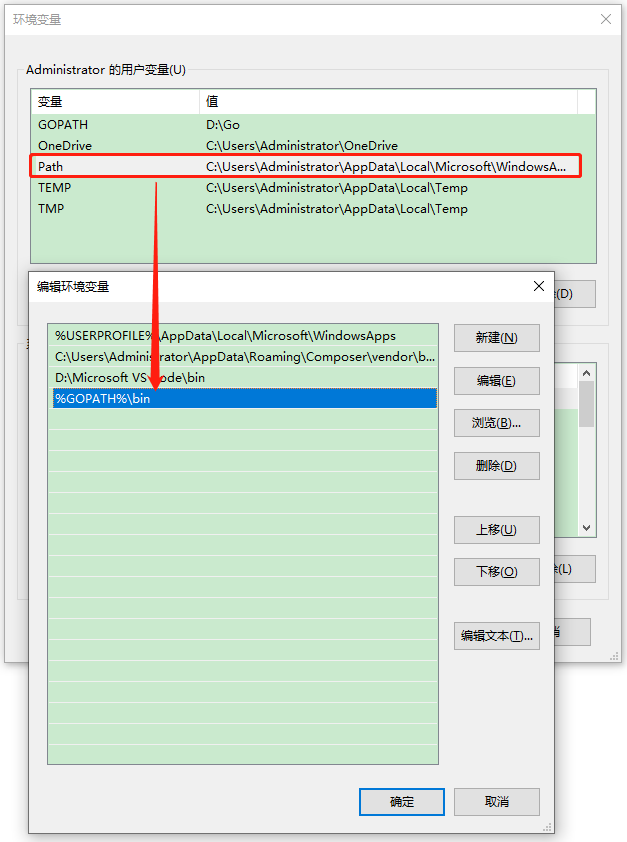
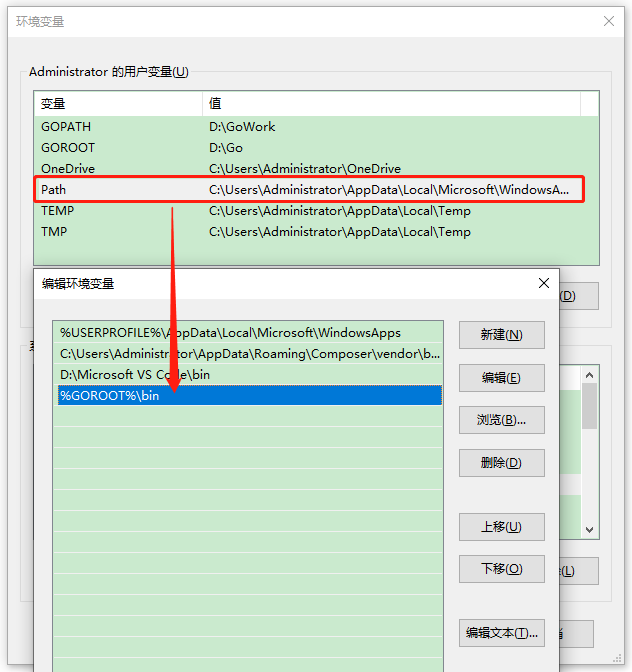
update post

diff --git a/_posts/2021-07-29-Go基础02：基础语法和结构.md b/_posts/2021-07-29-Go基础02：基础语法和结构.md
@@ -1,0 +1,90 @@
+---
+layout: post
+categories: Golang
+tags: [Go基础]
+---
+
+## 第一个 Go 程序
+
+hello.go
+
+```go
+package main
+
+import "fmt"
+
+func main() {
+	fmt.Println("Hello, World!")
+}
+```
+
+**以上程序的各个部分说明：**
+
+1. `package main` 定义了包名，代表当前的文件属于那个包。每个 Go 源文件必须先声明它所属的包。main 表示一个可独立执行的程序，每个 Go 应用程序必须**有且仅有一个** main 的包。
+2. `import "fmt"` 用于导入程序中所依赖的包，导入的包名使用双引号`""`包围。
+3. `func main()` 定义了一个函数，main 函数是每一个可执行程序所必须包含的，并且一个 main 包中也必须**有且仅有一个** main 函数。
+4. `fmt.Println("Hello, World!")` 是通过 fmt 包的 Println 函数打印输出。
+
+**Go 语言的基础组成部分：**
+
+- 包声明
+- 引入包
+- 函数
+- 变量
+- 语句 & 表达式
+- 注释
+
+## Go 程序编译和运行
+
+Go语言提供的 `go build` 或者 `go run` 命令对Go语言程序进行编译：
+
+- `go build` 命令可以将Go语言程序代码编译成二进制的可执行文件，但是需要我们手动运行该二进制文件；
+
+```
+$ go run hello.go
+Hello, World!
+```
+
+- `go run` 命令则更加方便，它会在编译后直接运行Go语言程序，编译过程中会产生一个临时文件，但不会生成可执行文件，这个特点很适合用来调试程序。
+
+```
+$ go build hello.go 
+$ ls
+hello    hello.go
+$ ./hello 
+Hello, World!
+```
+
+**两种执行流程的方式说明：**
+
+1. 如果我们先编译生成了可执行文件，我们可以将该可执行文件拷贝到没有 go 开发环境的机器上，仍然可以运行
+2. 如果我们是直接 `go run` 源文件，那么我们如果要在另外一个机器上这么运行，也需要go开发环境，否则无法执行。
+3. 在编译时，编译器会将程序运行以来的库文件包含在可执行文件中，所以，可执行文件变大了很多。
+
+## Go 程序开发注意事项
+
+1. Go 源文件以 "go" 为扩展名。
+2. Go 应用程序的执行入口是 main() 函数。
+3. Go 语言严格区分大小写。
+4. Go 方法由一条条语句构成，每个语句后不需要分号。
+5. Go 编译器是一行行进行编译的，因此我们一行就写一条语句，不能把多条语句写在同一个，否则报错。
+6. Go 语言定义的变量或者 import 的包如果没有使用到，代码不能编译通过。
+
+## Go 语言中的关键字
+
+Go 代码中会使用到的 25 个关键字或保留字：
+
+| break    | default     | func   | interface | select |
+| -------- | ----------- | ------ | --------- | ------ |
+| case     | defer       | go     | map       | struct |
+| chan     | else        | goto   | package   | switch |
+| const    | fallthrough | if     | range     | type   |
+| continue | for         | import | return    | var    |
+
+除了以上的关键字，Go 语言还有 36 个预定义标识符：
+
+| append | bool    | byte    | cap     | close  | complex | complex64 | complex128 | uint16  |
+| ------ | ------- | ------- | ------- | ------ | ------- | --------- | ---------- | ------- |
+| copy   | false   | float32 | float64 | imag   | int     | int8      | int16      | uint32  |
+| int32  | int64   | iota    | len     | make   | new     | nil       | panic      | uint64  |
+| print  | println | real    | recover | string | true    | uint      | uint8      | uintptr |

diff --git a/_posts/2021-07-28-Go基础01：搭建Windows开发环境.md b/_posts/2021-07-28-Go基础01：搭建Windows开发环境.md
@@ -29,6 +29,12 @@ tags: [Go基础]
 
 ## 设置系统环境变量
 
+| 环境变量 | 说明                  |
+| -------- | --------------------- |
+| GOROOT   | 指定 SDK 的安装目录   |
+| Path     | 添加 SDK 的 /bin 目录 |
+| GOPATH   | Go 项目的工作目录     |
+
 ![03.png](/static/images/20210728/03.png)
 
 ![04.png](/static/images/20210728/04.png)
@@ -54,11 +60,11 @@ set GOFLAGS=
 set GOHOSTARCH=amd64
 set GOHOSTOS=windows
 set GOINSECURE=
-set GOMODCACHE=D:\Go\pkg\mod
+set GOMODCACHE=D:\GoWork\pkg\mod
 set GONOPROXY=
 set GONOSUMDB=
 set GOOS=windows
-set GOPATH=D:\Go
+set GOPATH=D:\GoWork
 set GOPRIVATE=
 set GOPROXY=https://goproxy.cn,direct
 set GOROOT=D:\Go
@@ -79,5 +85,5 @@ set CGO_CXXFLAGS=-g -O2
 set CGO_FFLAGS=-g -O2
 set CGO_LDFLAGS=-g -O2
 set PKG_CONFIG=pkg-config
-set GOGCCFLAGS=-m64 -mthreads -fmessage-length=0 -fdebug-prefix-map=C:\Users\ADMINI~1\AppData\Local\Temp\go-build285486021=/tmp/go-build -gno-record-gcc-switches
+set GOGCCFLAGS=-m64 -mthreads -fmessage-length=0 -fdebug-prefix-map=C:\Users\ADMINI~1\AppData\Local\Temp\go-build2062965041=/tmp/go-build -gno-record-gcc-switches
 ```
